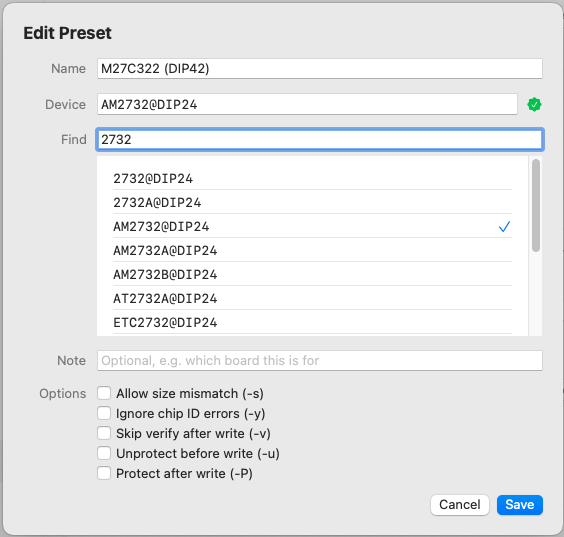
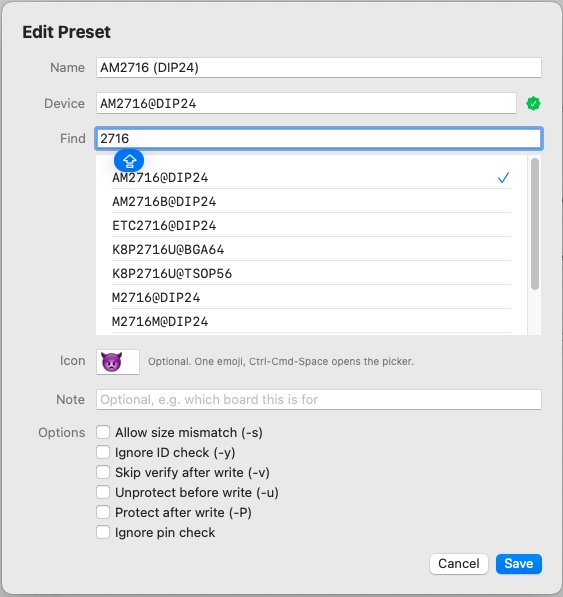
README: new preset editor screenshot
Claude-Session: https://claude.ai/code/session_01TzK8yppmMLch9aiwp417RL

diff --git a/README.md b/README.md
@@ -130,7 +130,7 @@ Add one with the + button, or right-click an existing one and Duplicate. In the 
 
 Watch out, some parts are named differently for the T48 than for the old TL866A. A29040 in PLCC32 is `A29040L@PLCC32` on the T48, for example.
 
-![Picking a device name from the search list in the preset editor](docs/preset-editor.png)
+![Preset editor: searching for 2716, picking AM2716@DIP24 and giving it an emoji icon](docs/preset-editor.png)
 
 Presets can also remember their files. Line them up (with offsets if you want), press **Save to Preset**, and next time you pick that preset they're already there. Handy for things you flash over and over, like a ROM HI/LO pair. If a saved file has been moved or renamed it shows in orange and the write won't start. Each file also shows when it was last modified, so you notice if a ROM image changed under you.
 
